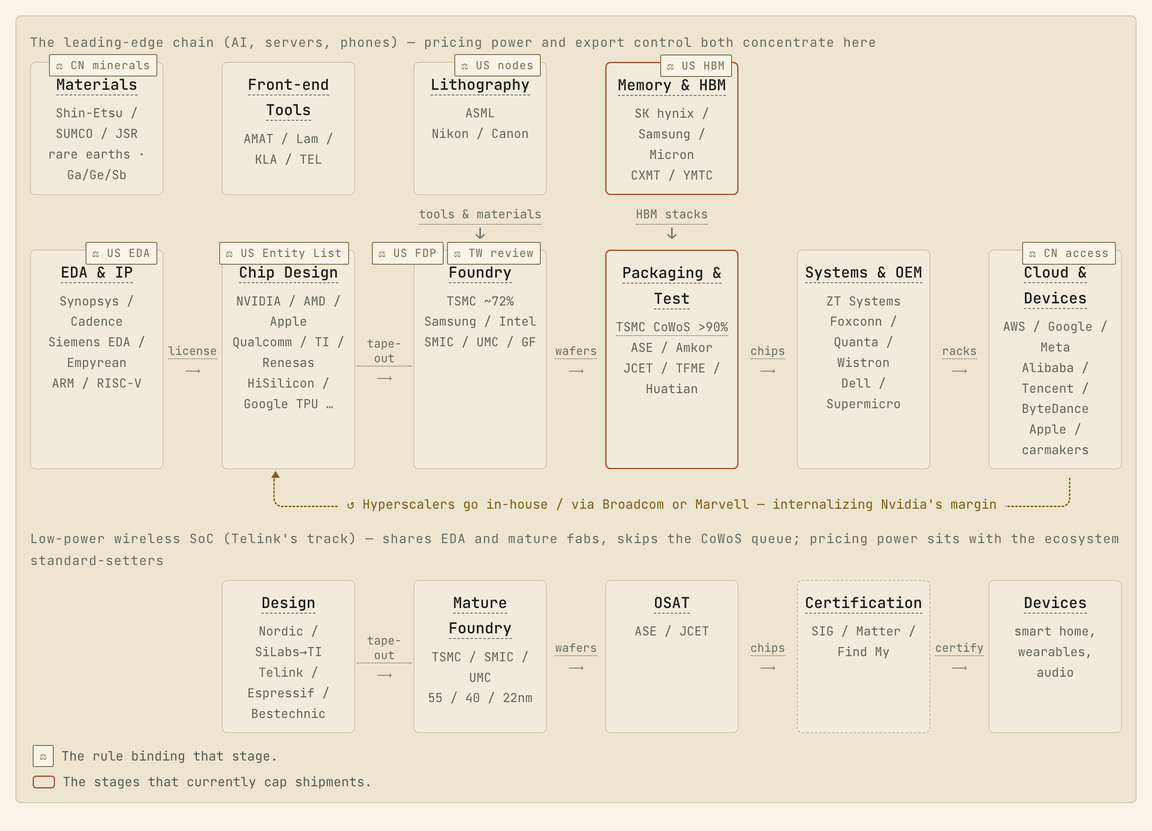
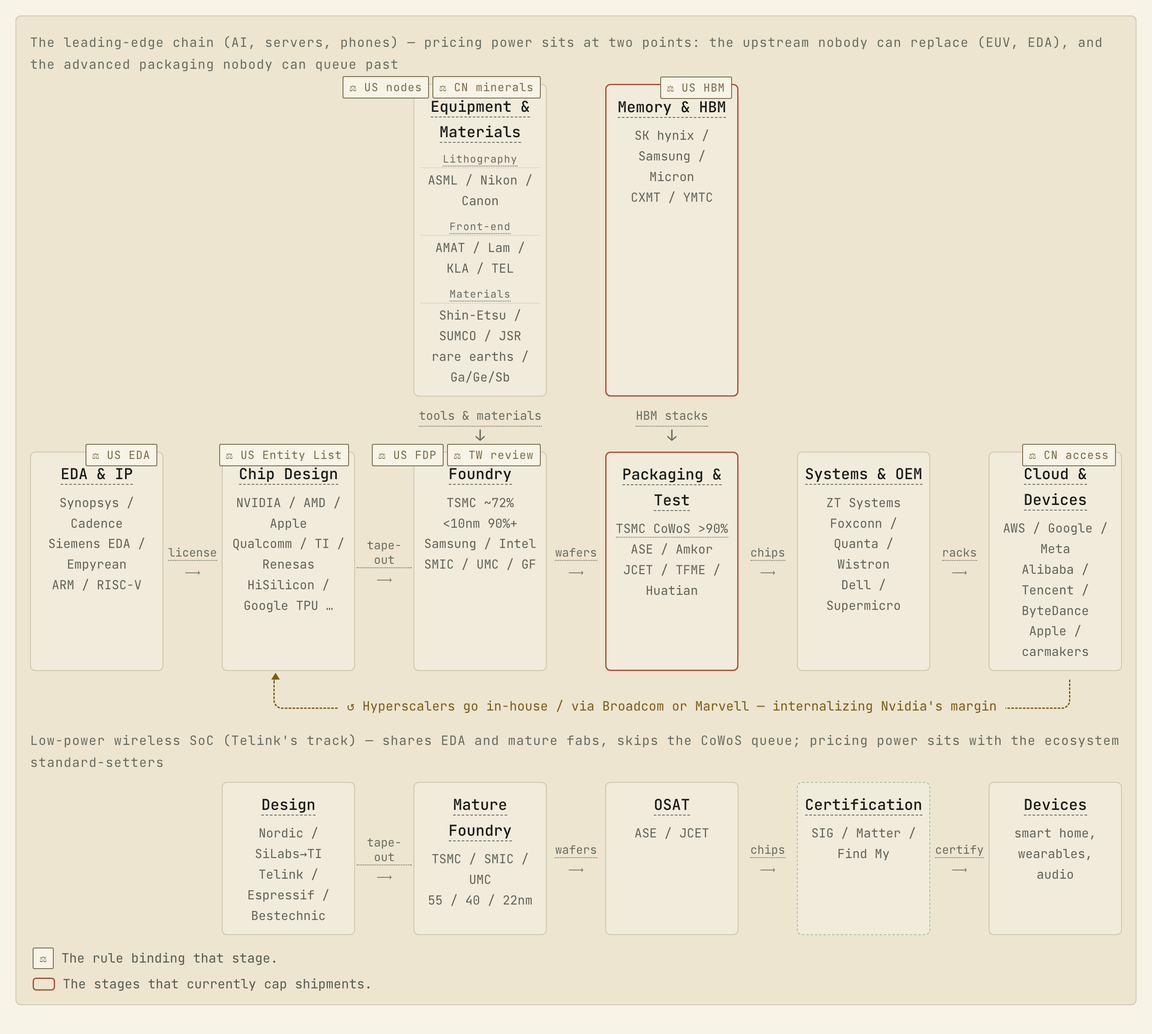
semis: equipment reads as one box with three bands; popups verified clear at three widths
The three separate cells competed with the main chain and wrapped their
titles, so 设备与材料 goes back to one cell carrying labelled bands —
光刻 / 前道设备 / 材料. Lithography still shows ASML on its own line,
which was the point of splitting.

Tooltips: the earlier fix moved left-anchored and centred tips back
inside the viewport but did nothing for right-anchored ones (.tipR sets
left:auto right:0, where margin-left is absorbed). The nudge now drives
both margins from one variable, which covers every anchoring the page
uses. Audited at 1217, 768 and 447px: 149 tips each, none covered, none
cut, none off-canvas.

Also: the language and region radios get autocomplete="off" — browsers
restore the last radio state on reload, which is why the page kept
opening in English after anyone had switched it. Interpuncts I had
reintroduced in the new content go back to slashes. The foundry box
carries <10nm 90%+ next to the ~72% overall share. The lane header no
longer says pricing power "concentrates here", which survived no
follow-up question; it names the two points it sits at.

diff --git a/quartz/static/semis/_cap.html b/quartz/static/semis/_cap.html
@@ -76,7 +76,7 @@ tbody tr:nth-child(even){background:var(--zebra)}
   cursor:help;outline:none;transition:border-color .15s,color .15s}
 .tg-tip:hover,.tg-tip:focus-visible{border-bottom-color:var(--color-accent);
   color:var(--color-accent-light)}
-.tg-tip-box{position:absolute;bottom:calc(100% + 9px);left:50%;z-index:60;margin-left:var(--nudge,0px);margin-right:calc(-1 * var(--nudge,0px));
+.tg-tip-box{position:absolute;bottom:calc(100% + 9px);left:50%;z-index:60;margin-left:var(--nudge,0px);
   width:max-content;max-width:min(360px,82vw);padding:.6rem .75rem;
   border:1px solid var(--color-border-hover);border-radius:5px;
   background:var(--color-surface-raised);box-shadow:0 8px 28px var(--shadow-pop);
@@ -349,16 +349,16 @@ h1.article-title{font-size:30px}
 .tg-tip-box::after{transform:translateX(calc(-1 * var(--nudge, 0px)))}
 </style></head><body><article>
 <h1 class="article-title">半导体产业链全图 — Semiconductor Value Chain: The Full Map</h1>
-<p class="meta">2026-08-21 / silviazeng.github.io</p>
+<p class="meta">2026-08-21 · silviazeng.github.io</p>
 <div class="tg-bi">
-<p><input type="radio" name="tgbilang" id="tg-lang-zh" checked autocomplete="off"><input type="radio" name="tgbilang" id="tg-lang-en" autocomplete="off"></p>
-<div id="mapwrap"><input type="radio" name="regsel" id="r-all" checked autocomplete="off"><input type="radio" name="regsel" id="r-us" autocomplete="off"><input type="radio" name="regsel" id="r-tw" autocomplete="off"><input type="radio" name="regsel" id="r-cn" autocomplete="off"><input type="radio" name="regsel" id="r-kr" autocomplete="off"><input type="radio" name="regsel" id="r-jp" autocomplete="off"><input type="radio" name="regsel" id="r-eu" autocomplete="off"><div class="ctrlbar">
+<p><input type="radio" name="tgbilang" id="tg-lang-zh" checked><input type="radio" name="tgbilang" id="tg-lang-en"></p>
+<div id="mapwrap"><input type="radio" name="regsel" id="r-all" checked><input type="radio" name="regsel" id="r-us"><input type="radio" name="regsel" id="r-tw"><input type="radio" name="regsel" id="r-cn"><input type="radio" name="regsel" id="r-kr"><input type="radio" name="regsel" id="r-jp"><input type="radio" name="regsel" id="r-eu"><div class="ctrlbar">
 <div class="ctrl-group"><span class="ctrl-lab">Language</span>
 <div aria-label="language" class="tg-bi-switch" role="group"><label for="tg-lang-zh">中文</label><label for="tg-lang-en">EN</label></div></div>
 </div>
 <div class="filterbar"><span class="ctrl-lab"><span class="tg-lang zh">地区筛选</span><span class="tg-lang en">Region filter</span></span><div class="legend"><label class="b-all" for="r-all"><span class="tg-lang zh">全部</span><span class="tg-lang en">All</span></label><label class="b-us" for="r-us"><span class="tg-lang zh">美国</span><span class="tg-lang en">US</span></label><label class="b-tw" for="r-tw"><span class="tg-lang zh">台湾</span><span class="tg-lang en">Taiwan</span></label><label class="b-cn" for="r-cn"><span class="tg-lang zh">中国大陆</span><span class="tg-lang en">China</span></label><label class="b-kr" for="r-kr"><span class="tg-lang zh">韩国</span><span class="tg-lang en">Korea</span></label><label class="b-jp" for="r-jp"><span class="tg-lang zh">日本</span><span class="tg-lang en">Japan</span></label><label class="b-eu" for="r-eu"><span class="tg-lang zh">欧洲</span><span class="tg-lang en">Europe</span></label></div></div>
-<figure class="fig"><div class="fgrid"><div class="flane" style="grid-row:1;grid-column:1/-1"><span class="tg-lang zh">先进制程链（AI、服务器、手机）—— 定价权在两处：无可替代的上游（EUV、EDA），和排不上队的先进封装</span><span class="tg-lang en">The leading-edge chain (AI, servers, phones) — pricing power sits at two points: the upstream nobody can replace (EUV, EDA), and the advanced packaging nobody can queue past</span></div>
-<div class="fbox" style="grid-row:2;grid-column:5"><span class="ftag"><span class="fpill tg-tip" tabindex="0">⚖ <span class="tg-lang zh">美国门槛</span><span class="tg-lang en">US nodes</span><span class="tg-tip-box"><span class="tg-lang zh">同属一套<b>美国出口管制体系（EAR，商务部 BIS 执行）</b>——五件工具各咬一层，这件管的是「设备能不能进厂」。<br><br><b>2022 年 10 月 7 日的制程门槛 + 2024 年 12 月的设备 FDP 规则。</b>向中国境内工厂出口设备，只要该厂生产 16/14nm 以下逻辑、18nm 半节距以下 DRAM 或 128 层以上 NAND，就需要许可证——<b>不看所有权</b>。2024 年 12 月起，连非美国造的设备只要用了美国技术也一并覆盖。</span><span class="tg-lang en">One instrument of the <b>same US export-control system (the EAR, run by BIS)</b> — five tools each bite one layer, and this one governs whether tools may enter the fab.<br><br><b>The node thresholds of 7 October 2022, plus the equipment FDP rule of December 2024.</b> Shipping tools to any China-located fab producing logic below 16/14nm, DRAM below 18nm half-pitch or NAND at 128+ layers requires a licence — <b>regardless of who owns the fab</b>. Since December 2024 even non-US tools built with US technology are covered.</span></span></span><span class="fpill tg-tip" tabindex="0">⚖ <span class="tg-lang zh">中国原料</span><span class="tg-lang en">CN minerals</span><span class="tg-tip-box"><span class="tg-lang zh"><b>商务部 2025 年 10 月 9 日第 61/62 号公告。</b>只要一件外国制造的产品里含有价值占比 0.1% 以上的中国原产稀土，出口就需要中国的许可证——<b>这是中国版的 FDP 规则</b>，同样的域外管辖逻辑，方向相反。另有镓、锗、锑：2024 年 12 月 3 日曾宣布对美「原则上不予许可」，2025 年 11 月改回许可制。釜山会晤后，域外条款暂停至 2026 年 11 月 10 日，镓锗锑暂停至 11 月 27 日。</span><span class="tg-lang en"><b>MOFCOM Notices 61/62 of 9 October 2025.</b> Any foreign-made good containing 0.1% or more Chinese-origin rare earths needs a Chinese export licence — structurally the mirror of the US FDP rule. Suspended after Busan until 10 November 2026; the gallium/germanium/antimony suspension runs to 27 November.</span></span></span></span><span class="ft"><span class="tg-tip " tabindex="0"><span class="tg-lang zh">设备与材料</span><span class="tg-lang en">Equipment &amp; Materials</span><span class="tg-tip-box"><span class="tg-lang zh"><b>设备与材料</b>。造芯片的机器和原料，集中度比下游任何一层都高。三格分开看：光刻是单点，前道设备有竞争，材料看日本与中国。</span><span class="tg-lang en"><b>Equipment &amp; materials</b> — more concentrated than anything downstream. Read the three bands separately: lithography is a single point, front-end tools have real competition, materials turn on Japan and China.</span></span></span></span><span class="fp"><span class="fsub"><span class="tg-tip " tabindex="0"><span class="tg-lang zh">光刻</span><span class="tg-lang en">Lithography</span><span class="tg-tip-box"><span class="tg-lang zh"><b>EUV 全球只有 ASML 一家</b>，而它自己也是单点叠单点：光源来自美国 Cymer，镜头来自德国蔡司，激光来自德国通快。DUV 上尼康、佳能仍在，EUV 上没有第二家。</span><span class="tg-lang en"><b>ASML is the only maker of EUV</b>, and is itself single-sourced one layer down: light source from Cymer in the US, optics from Zeiss and lasers from Trumpf in Germany. Nikon and Canon still compete in DUV; in EUV there is no second supplier.</span></span></span></span><span class="fsp"><span class="sr sr-eu">ASML</span> / <span class="sr sr-jp">Nikon</span> / <span class="sr sr-jp">Canon</span></span><span class="fsub"><span class="tg-tip " tabindex="0"><span class="tg-lang zh">前道设备</span><span class="tg-lang en">Front-end</span><span class="tg-tip-box"><span class="tg-lang zh"><b>沉积、刻蚀、量测</b>。和光刻不同，这一层有多家真实竞争，也是国产替代推进最快的地方（北方华创、中微、新凯来，见下方 00）。</span><span class="tg-lang en"><b>Deposition, etch, metrology.</b> Unlike lithography this layer has several real competitors, and it is where domestic Chinese substitution has moved fastest (NAURA, AMEC, SiCarrier — see 00 below).</span></span></span></span><span class="fsp"><span class="sr sr-us">AMAT</span> / <span class="sr sr-us">Lam</span> / <span class="sr sr-us">KLA</span> / <span class="sr sr-jp">TEL</span></span><span class="fsub"><span class="tg-tip " tabindex="0"><span class="tg-lang zh">材料</span><span class="tg-lang en">Materials</span><span class="tg-tip-box"><span class="tg-lang zh"><b>硅片、光刻胶、特气与关键矿物</b>。日本在硅片与光刻胶上高度集中；稀土和镓锗锑的精炼环节 80% 以上在中国。</span><span class="tg-lang en"><b>Wafers, resists, specialty gases and critical minerals.</b> Japan is heavily concentrated in wafers and resists; China refines over 80% of rare earths and Ga/Ge/Sb.</span></span></span></span><span class="fsp"><span class="sr sr-jp"><span class="tg-lang zh">信越</span><span class="tg-lang en">Shin-Etsu</span></span> / <span class="sr sr-jp">SUMCO</span> / <span class="sr sr-jp">JSR</span><br><span class="sr sr-cn"><span class="tg-lang zh">稀土及镓锗锑</span><span class="tg-lang en">rare earths / Ga/Ge/Sb</span></span></span></span></div>
+<figure class="fig"><div class="fgrid"><div class="flane" style="grid-row:1;grid-column:1/-1"><span class="tg-lang zh">先进制程链（AI、服务器、手机）—— 定价权与出口管制都集中在这条线上</span><span class="tg-lang en">The leading-edge chain (AI, servers, phones) — pricing power and export control both concentrate here</span></div>
+<div class="fbox" style="grid-row:2;grid-column:5"><span class="ftag"><span class="fpill tg-tip" tabindex="0">⚖ <span class="tg-lang zh">美国门槛</span><span class="tg-lang en">US nodes</span><span class="tg-tip-box"><span class="tg-lang zh">同属一套<b>美国出口管制体系（EAR，商务部 BIS 执行）</b>——五件工具各咬一层，这件管的是「设备能不能进厂」。<br><br><b>2022 年 10 月 7 日的制程门槛 + 2024 年 12 月的设备 FDP 规则。</b>向中国境内工厂出口设备，只要该厂生产 16/14nm 以下逻辑、18nm 半节距以下 DRAM 或 128 层以上 NAND，就需要许可证——<b>不看所有权</b>。2024 年 12 月起，连非美国造的设备只要用了美国技术也一并覆盖。</span><span class="tg-lang en">One instrument of the <b>same US export-control system (the EAR, run by BIS)</b> — five tools each bite one layer, and this one governs whether tools may enter the fab.<br><br><b>The node thresholds of 7 October 2022, plus the equipment FDP rule of December 2024.</b> Shipping tools to any China-located fab producing logic below 16/14nm, DRAM below 18nm half-pitch or NAND at 128+ layers requires a licence — <b>regardless of who owns the fab</b>. Since December 2024 even non-US tools built with US technology are covered.</span></span></span><span class="fpill tg-tip" tabindex="0">⚖ <span class="tg-lang zh">中国原料</span><span class="tg-lang en">CN minerals</span><span class="tg-tip-box"><span class="tg-lang zh"><b>商务部 2025 年 10 月 9 日第 61/62 号公告。</b>只要一件外国制造的产品里含有价值占比 0.1% 以上的中国原产稀土，出口就需要中国的许可证——<b>这是中国版的 FDP 规则</b>，同样的域外管辖逻辑，方向相反。另有镓、锗、锑：2024 年 12 月 3 日曾宣布对美「原则上不予许可」，2025 年 11 月改回许可制。釜山会晤后，域外条款暂停至 2026 年 11 月 10 日，镓锗锑暂停至 11 月 27 日。</span><span class="tg-lang en"><b>MOFCOM Notices 61/62 of 9 October 2025.</b> Any foreign-made good containing 0.1% or more Chinese-origin rare earths needs a Chinese export licence — structurally the mirror of the US FDP rule. Suspended after Busan until 10 November 2026; the gallium/germanium/antimony suspension runs to 27 November.</span></span></span></span><span class="ft"><span class="tg-tip " tabindex="0"><span class="tg-lang zh">设备与材料</span><span class="tg-lang en">Equipment &amp; Materials</span><span class="tg-tip-box"><span class="tg-lang zh"><b>设备与材料</b>。造芯片的机器和原料，集中度比下游任何一层都高。三格分开看：光刻是单点，前道设备有竞争，材料看日本与中国。</span><span class="tg-lang en"><b>Equipment &amp; materials</b> — more concentrated than anything downstream. Read the three bands separately: lithography is a single point, front-end tools have real competition, materials turn on Japan and China.</span></span></span></span><span class="fp"><span class="fsub"><span class="tg-tip " tabindex="0"><span class="tg-lang zh">光刻</span><span class="tg-lang en">Lithography</span><span class="tg-tip-box"><span class="tg-lang zh"><b>EUV 全球只有 ASML 一家</b>，而它自己也是单点叠单点：光源来自美国 Cymer，镜头来自德国蔡司，激光来自德国通快。DUV 上尼康、佳能仍在，EUV 上没有第二家。</span><span class="tg-lang en"><b>ASML is the only maker of EUV</b>, and is itself single-sourced one layer down: light source from Cymer in the US, optics from Zeiss and lasers from Trumpf in Germany. Nikon and Canon still compete in DUV; in EUV there is no second supplier.</span></span></span></span><span class="fsp"><span class="sr sr-eu">ASML</span> · <span class="sr sr-jp">Nikon</span> · <span class="sr sr-jp">Canon</span></span><span class="fsub"><span class="tg-tip " tabindex="0"><span class="tg-lang zh">前道设备</span><span class="tg-lang en">Front-end</span><span class="tg-tip-box"><span class="tg-lang zh"><b>沉积、刻蚀、量测</b>。和光刻不同，这一层有多家真实竞争，也是国产替代推进最快的地方（北方华创、中微、新凯来，见下方 00）。</span><span class="tg-lang en"><b>Deposition, etch, metrology.</b> Unlike lithography this layer has several real competitors, and it is where domestic Chinese substitution has moved fastest (NAURA, AMEC, SiCarrier — see 00 below).</span></span></span></span><span class="fsp"><span class="sr sr-us">AMAT</span> · <span class="sr sr-us">Lam</span> · <span class="sr sr-us">KLA</span> · <span class="sr sr-jp">TEL</span></span><span class="fsub"><span class="tg-tip " tabindex="0"><span class="tg-lang zh">材料</span><span class="tg-lang en">Materials</span><span class="tg-tip-box"><span class="tg-lang zh"><b>硅片、光刻胶、特气与关键矿物</b>。日本在硅片与光刻胶上高度集中；稀土和镓锗锑的精炼环节 80% 以上在中国。</span><span class="tg-lang en"><b>Wafers, resists, specialty gases and critical minerals.</b> Japan is heavily concentrated in wafers and resists; China refines over 80% of rare earths and Ga/Ge/Sb.</span></span></span></span><span class="fsp"><span class="sr sr-jp"><span class="tg-lang zh">信越</span><span class="tg-lang en">Shin-Etsu</span></span> · <span class="sr sr-jp">SUMCO</span> · <span class="sr sr-jp">JSR</span><br><span class="sr sr-cn"><span class="tg-lang zh">稀土及镓锗锑</span><span class="tg-lang en">rare earths · Ga/Ge/Sb</span></span></span></span></div>
 <div class="fbox hot" style="grid-row:2;grid-column:7"><span class="ftag"><span class="fpill tg-tip" tabindex="0">⚖ <span class="tg-lang zh">美国 HBM</span><span class="tg-lang en">US HBM</span><span class="tg-tip-box"><span class="tg-lang zh">同属一套<b>美国出口管制体系（EAR，商务部 BIS 执行）</b>——五件工具各咬一层，这件管的是「这类物项本身」。<br><br><b>2024 年 12 月起 HBM 被纳入管制（ECCN 3A090.c）。</b>这是目前限制华为昇腾出货量的真正瓶颈——约束在 HBM，不在逻辑晶圆。注意这一格里三家的机制各不相同：美光本身是美国公司；长江存储 2022 年 12 月被列入实体清单；<b>长鑫至今未被列名，它受约束靠的是上面那条不看所有权的制程门槛</b>。</span><span class="tg-lang en">One instrument of the <b>same US export-control system (the EAR, run by BIS)</b> — five tools each bite one layer, and this one governs the item class itself.<br><br><b>HBM came under control in December 2024 (ECCN 3A090.c).</b> This, not logic wafers, is the binding constraint on Huawei's Ascend shipments. Note the three makers here are caught by different mechanisms: Micron is simply American; YMTC was Entity-Listed in December 2022; <b>CXMT has never been named — it is bound by the ownership-blind node thresholds above</b>.</span></span></span></span><span class="ft"><span class="tg-tip " tabindex="0"><span class="tg-lang zh">存储与 HBM</span><span class="tg-lang en">Memory & HBM</span><span class="tg-tip-box"><span class="tg-lang zh"><b>HBM（High Bandwidth Memory，高带宽内存）</b>。垂直堆叠的 DRAM，紧贴处理器裸片放置。AI 加速器的主要规格竞赛点，全球只有 SK 海力士、三星、美光三家能量产。2024 年 12 月起被列入美国出口管制，<b>这是目前限制华为昇腾出货量的真正瓶颈——不是逻辑晶圆</b>。</span><span class="tg-lang en"><b>HBM (High Bandwidth Memory)</b> — vertically stacked DRAM placed against the processor die. Only SK hynix, Samsung and Micron produce it at volume. Export-controlled by the US since December 2024, and <b>the actual binding constraint on Huawei's Ascend shipments — not logic wafers</b>.</span></span></span></span><span class="fp"><span class="sr sr-kr"><span class="tg-lang zh">SK 海力士</span><span class="tg-lang en">SK hynix</span></span> / <span class="sr sr-kr"><span class="tg-lang zh">三星</span><span class="tg-lang en">Samsung</span></span> / <span class="sr sr-us"><span class="tg-lang zh">美光</span><span class="tg-lang en">Micron</span></span><br><span class="sr sr-cn"><span class="tg-lang zh">长鑫</span><span class="tg-lang en">CXMT</span></span> / <span class="sr sr-cn"><span class="tg-lang zh">长江存储</span><span class="tg-lang en">YMTC</span></span></span></div>
 <div class="fvert" style="grid-row:3;grid-column:5"><span class="tg-tip " tabindex="0"><span class="tg-lang zh">设备与材料</span><span class="tg-lang en">tools & materials</span><span class="tg-tip-box"><span class="tg-lang zh">光刻机、刻蚀机、硅片、光刻胶从这里进厂。断供这一条竖线，工厂两年后就造不了下一代。</span><span class="tg-lang en">Scanners, etchers, wafers and resists enter the fab here. Cut this vertical and in two years the fab cannot build the next node.</span></span></span><span class="ar">↓</span></div>
 <div class="fvert" style="grid-row:3;grid-column:7"><span class="tg-tip " tabindex="0"><span class="tg-lang zh">HBM 堆栈</span><span class="tg-lang en">HBM stacks</span><span class="tg-tip-box"><span class="tg-lang zh">HBM 是在<b>封装环节</b>才和逻辑裸片合体的——这正是 CoWoS 成为整条链瓶颈的原因。</span><span class="tg-lang en">HBM only meets the logic die <b>at packaging</b> — which is exactly why CoWoS is the chain's bottleneck.</span></span></span><span class="ar">↓</span></div>
@@ -366,7 +366,7 @@ h1.article-title{font-size:30px}
 <div class="fcon" style="grid-row:4;grid-column:2"><span class="tg-tip " tabindex="0"><span class="tg-lang zh">授权</span><span class="tg-lang en">license</span><span class="tg-tip-box"><span class="tg-lang zh">EDA 工具按席位收费；IP 按「授权费 + 每颗版税」收。ARM 的商业模式就在这一条箭头上。</span><span class="tg-lang en">EDA tools are sold per seat; IP as licence fee plus per-chip royalty. ARM's entire business model lives on this one arrow.</span></span></span><span class="ar">⟶</span></div>
 <div class="fbox" style="grid-row:4;grid-column:3"><span class="ftag"><span class="fpill tg-tip" tabindex="0">⚖ <span class="tg-lang zh">美国实体清单</span><span class="tg-lang en">US Entity List</span><span class="tg-tip-box"><span class="tg-lang zh">同属一套<b>美国出口管制体系（EAR，商务部 BIS 执行）</b>——五件工具各咬一层，这件管的是「能不能卖给这家公司」。<br><br><b>实体清单点名。</b>华为 2019 年入列、中芯 2020 年、算能 2024 年，2024 年 12 月一次加了 140 多家。向名单上的实体出口受管制物项需要许可证，而许可政策通常是「推定拒绝」。</span><span class="tg-lang en">One instrument of the <b>same US export-control system (the EAR, run by BIS)</b> — five tools each bite one layer, and this one governs whether anyone may sell to this company.<br><br><b>Named on the Entity List.</b> Huawei in 2019, SMIC in 2020, Sophgo in 2024, and over 140 entities added at once in December 2024. Exports of controlled items to a listed party need a licence, normally under a policy of presumptive denial.</span></span></span></span><span class="ft"><span class="tg-tip " tabindex="0"><span class="tg-lang zh">芯片设计</span><span class="tg-lang en">Chip Design</span><span class="tg-tip-box"><span class="tg-lang zh"><b>芯片设计（fabless）</b>。只做设计不建厂，产出是版图（GDSII 数据），交给代工厂印到硅上。英特尔、三星、TI 这类设计制造都自己做的叫 IDM。这一层价值最集中、玩家最多。</span><span class="tg-lang en"><b>Chip design (fabless)</b> — design only, no fab. The output is a layout (GDSII) handed to a foundry to print on silicon. Firms that do both, like Intel, Samsung and TI, are IDMs.</span></span></span></span><span class="fp"><span class="sr sr-us">NVIDIA</span> / <span class="sr sr-us">AMD</span> / <span class="sr sr-us">Apple</span><br><span class="sr sr-us"><span class="tg-lang zh">高通</span><span class="tg-lang en">Qualcomm</span></span> / <span class="sr sr-us">TI</span> / <span class="sr sr-jp"><span class="tg-lang zh">瑞萨</span><span class="tg-lang en">Renesas</span></span><br><span class="sr sr-cn"><span class="tg-lang zh">海思</span><span class="tg-lang en">HiSilicon</span></span> / <span class="sr sr-us">Google TPU …</span></span></div>
 <div class="fcon" style="grid-row:4;grid-column:4"><span class="tg-tip " tabindex="0"><span class="tg-lang zh">版图</span><span class="tg-lang en">tape-out</span><span class="tg-tip-box"><span class="tg-lang zh"><b>版图（GDSII）→ tape-out</b>。设计数据定稿、签核、交给代工厂的那个时间点。注意它是事件不是过程。一颗普通 7nm SoC 的首次 tape-out 通常就要 5,000 万美元。</span><span class="tg-lang en"><b>Layout (GDSII) → tape-out</b> — the moment design data is finalized, signed off and handed to the foundry. An event, not a process. A first tape-out of an ordinary 7nm SoC typically runs $50m.</span></span></span><span class="ar">⟶</span></div>
-<div class="fbox" style="grid-row:4;grid-column:5"><span class="ftag"><span class="fpill tg-tip" tabindex="0">⚖ <span class="tg-lang zh">美国 FDP</span><span class="tg-lang en">US FDP</span><span class="tg-tip-box"><span class="tg-lang zh">同属一套<b>美国出口管制体系（EAR，商务部 BIS 执行）</b>——五件工具各咬一层，这件管的是「在国外造的算不算美国管」。<br><br><b>外国直接产品规则（FDP）。</b>一件产品哪怕百分之百在台湾制造、由台湾公司拥有，只要它是用美国的技术、软件或设备「直接生产」出来的，美国就主张管辖权——不论它在哪造、由谁造。<b>这才是台积电受美国法律约束的原因</b>，而不是它有多少美国客户。2020 年针对华为启用，2022 年扩展到先进计算，2024 年 12 月又扩展到半导体设备本身。</span><span class="tg-lang en">One instrument of the <b>same US export-control system (the EAR, run by BIS)</b> — five tools each bite one layer, and this one governs whether a foreign-made product still falls under US law.<br><br><b>The Foreign Direct Product Rule.</b> Even an item made entirely in Taiwan by a Taiwanese company falls under US jurisdiction if it is the direct product of American technology or equipment. <b>That, not its customer list, is why TSMC is bound by US law.</b></span></span></span><span class="fpill tg-tip" tabindex="0">⚖ <span class="tg-lang zh">台湾审查</span><span class="tg-lang en">TW review</span><span class="tg-tip-box"><span class="tg-lang zh"><b>《产业创新条例》第 22 条修正（2025 年 4 月通过）。</b>对外投资特定技术需事前核准，主管机关可以国家安全为由否决或附条件核准。所谓「N-1 原则」（海外制程落后本土一代）从来不是成文禁令，而是通过这道审查行使的裁量性规范，2025 年 1 月起持续放宽。</span><span class="tg-lang en"><b>Article 22 of the Industrial Innovation Act, amended April 2025.</b> Outbound investment in designated technologies needs prior approval, and the ministry may refuse or attach conditions on national-security grounds. The so-called N-1 rule was never a codified ban — it is a discretionary norm applied through this review, and has been loosened since January 2025.</span></span></span></span><span class="ft"><span class="tg-tip " tabindex="0"><span class="tg-lang zh">晶圆代工</span><span class="tg-lang en">Foundry</span><span class="tg-tip-box"><span class="tg-lang zh"><b>晶圆代工（foundry）</b>。在硅片上把别人设计好的电路「印」出来。纯代工（pure-play）意味着自己不设计任何产品，因此永远不与客户竞争——1987 年张忠谋发明的就是这条承诺。</span><span class="tg-lang en"><b>Foundry</b> — a contract manufacturer that prints someone else's design on silicon. <i>Pure-play</i> means designing no products of its own, so it never competes with its customers — the promise Morris Chang invented in 1987.</span></span></span></span><span class="fp"><span class="sr sr-tw"><span class="tg-lang zh">台积电 ~72%<br>&lt;10nm 90%+</span><span class="tg-lang en">TSMC ~72%<br>&lt;10nm 90%+</span></span><br><span class="sr sr-kr"><span class="tg-lang zh">三星</span><span class="tg-lang en">Samsung</span></span> / <span class="sr sr-us"><span class="tg-lang zh">英特尔</span><span class="tg-lang en">Intel</span></span><br><span class="sr sr-cn"><span class="tg-lang zh">中芯</span><span class="tg-lang en">SMIC</span></span> / <span class="sr sr-tw"><span class="tg-lang zh">联电</span><span class="tg-lang en">UMC</span></span> / <span class="sr sr-us">GF</span></span></div>
+<div class="fbox" style="grid-row:4;grid-column:5"><span class="ftag"><span class="fpill tg-tip" tabindex="0">⚖ <span class="tg-lang zh">美国 FDP</span><span class="tg-lang en">US FDP</span><span class="tg-tip-box"><span class="tg-lang zh">同属一套<b>美国出口管制体系（EAR，商务部 BIS 执行）</b>——五件工具各咬一层，这件管的是「在国外造的算不算美国管」。<br><br><b>外国直接产品规则（FDP）。</b>一件产品哪怕百分之百在台湾制造、由台湾公司拥有，只要它是用美国的技术、软件或设备「直接生产」出来的，美国就主张管辖权——不论它在哪造、由谁造。<b>这才是台积电受美国法律约束的原因</b>，而不是它有多少美国客户。2020 年针对华为启用，2022 年扩展到先进计算，2024 年 12 月又扩展到半导体设备本身。</span><span class="tg-lang en">One instrument of the <b>same US export-control system (the EAR, run by BIS)</b> — five tools each bite one layer, and this one governs whether a foreign-made product still falls under US law.<br><br><b>The Foreign Direct Product Rule.</b> Even an item made entirely in Taiwan by a Taiwanese company falls under US jurisdiction if it is the direct product of American technology or equipment. <b>That, not its customer list, is why TSMC is bound by US law.</b></span></span></span><span class="fpill tg-tip" tabindex="0">⚖ <span class="tg-lang zh">台湾审查</span><span class="tg-lang en">TW review</span><span class="tg-tip-box"><span class="tg-lang zh"><b>《产业创新条例》第 22 条修正（2025 年 4 月通过）。</b>对外投资特定技术需事前核准，主管机关可以国家安全为由否决或附条件核准。所谓「N-1 原则」（海外制程落后本土一代）从来不是成文禁令，而是通过这道审查行使的裁量性规范，2025 年 1 月起持续放宽。</span><span class="tg-lang en"><b>Article 22 of the Industrial Innovation Act, amended April 2025.</b> Outbound investment in designated technologies needs prior approval, and the ministry may refuse or attach conditions on national-security grounds. The so-called N-1 rule was never a codified ban — it is a discretionary norm applied through this review, and has been loosened since January 2025.</span></span></span></span><span class="ft"><span class="tg-tip " tabindex="0"><span class="tg-lang zh">晶圆代工</span><span class="tg-lang en">Foundry</span><span class="tg-tip-box"><span class="tg-lang zh"><b>晶圆代工（foundry）</b>。在硅片上把别人设计好的电路「印」出来。纯代工（pure-play）意味着自己不设计任何产品，因此永远不与客户竞争——1987 年张忠谋发明的就是这条承诺。</span><span class="tg-lang en"><b>Foundry</b> — a contract manufacturer that prints someone else's design on silicon. <i>Pure-play</i> means designing no products of its own, so it never competes with its customers — the promise Morris Chang invented in 1987.</span></span></span></span><span class="fp"><span class="sr sr-tw"><span class="tg-lang zh">台积电 ~72%</span><span class="tg-lang en">TSMC ~72%</span></span><br><span class="sr sr-kr"><span class="tg-lang zh">三星</span><span class="tg-lang en">Samsung</span></span> / <span class="sr sr-us"><span class="tg-lang zh">英特尔</span><span class="tg-lang en">Intel</span></span><br><span class="sr sr-cn"><span class="tg-lang zh">中芯</span><span class="tg-lang en">SMIC</span></span> / <span class="sr sr-tw"><span class="tg-lang zh">联电</span><span class="tg-lang en">UMC</span></span> / <span class="sr sr-us">GF</span></span></div>
 <div class="fcon" style="grid-row:4;grid-column:6"><span class="tg-tip " tabindex="0"><span class="tg-lang zh">晶圆</span><span class="tg-lang en">wafers</span><span class="tg-tip-box"><span class="tg-lang zh"><b>晶圆</b>。代工厂按晶圆计价，不按芯片计价。2nm 晶圆业界预期 ⚠2.5–3 万美元一片。</span><span class="tg-lang en"><b>Wafers.</b> Foundries price per wafer, not per chip. A 2nm wafer is expected to run ⚠$25–30k.</span></span></span><span class="ar">⟶</span></div>
 <div class="fbox hot" style="grid-row:4;grid-column:7"><span class="ft"><span class="tg-tip " tabindex="0"><span class="tg-lang zh">封装测试</span><span class="tg-lang en">Packaging & Test</span><span class="tg-tip-box"><span class="tg-lang zh"><b>封装测试</b>。晶圆切成裸片后，封装把裸片装进能焊到电路板上的黑块，测试逐颗通电挑坏。AI 芯片在这一步把逻辑裸片和 HBM 合体（CoWoS）——<b>整条链的真正瓶颈在这里，不在晶圆</b>。</span><span class="tg-lang en"><b>Packaging & test.</b> Dies are sealed into solderable packages and tested part by part. For AI chips this is where logic dies meet HBM (CoWoS) — <b>the chain's real bottleneck, ahead of wafers</b>.</span></span></span></span><span class="fp"><span class="tg-tip sr sr-tw" tabindex="0"><span class="sr sr-tw"><span class="tg-lang zh">台积电 CoWoS &gt;90%</span><span class="tg-lang en">TSMC CoWoS &gt;90%</span></span><span class="tg-tip-box"><span class="tg-lang zh"><b>CoWoS（Chip-on-Wafer-on-Substrate）</b>。台积电的先进封装技术，把逻辑裸片和 HBM 堆栈接合到同一块中介层上。<b>限制 AI 芯片产出的真正瓶颈是它的产能，而不是晶圆产能</b>。台积电握有全球九成以上的 CoWoS 产能，2026 年底目标月产约 12 万片。</span><span class="tg-lang en"><b>CoWoS (Chip-on-Wafer-on-Substrate)</b> — TSMC's advanced packaging process, bonding logic dies and HBM stacks onto a shared interposer. <b>The real constraint on AI chip output is CoWoS capacity, not wafer capacity.</b> TSMC holds over 90% of it, targeting ~120k wafers/month by end-2026.</span></span></span><br><span class="sr sr-tw"><span class="tg-lang zh">日月光</span><span class="tg-lang en">ASE</span></span> / <span class="sr sr-us"><span class="tg-lang zh">安靠</span><span class="tg-lang en">Amkor</span></span><br><span class="sr sr-cn"><span class="tg-lang zh">长电</span><span class="tg-lang en">JCET</span></span> / <span class="sr sr-cn"><span class="tg-lang zh">通富</span><span class="tg-lang en">TFME</span></span> / <span class="sr sr-cn"><span class="tg-lang zh">华天</span><span class="tg-lang en">Huatian</span></span></span></div>
 <div class="fcon" style="grid-row:4;grid-column:8"><span class="tg-tip " tabindex="0"><span class="tg-lang zh">芯片</span><span class="tg-lang en">chips</span><span class="tg-tip-box"><span class="tg-lang zh">封好、测完、挑掉坏品之后的成品芯片。</span><span class="tg-lang en">Finished chips: packaged, tested, bad parts culled.</span></span></span><span class="ar">⟶</span></div>
@@ -455,7 +455,7 @@ h1.article-title{font-size:30px}
 <div class="st-head"><span class="st-num">08</span><span class="st-zh">认证与生态</span><span class="st-en">Certification &amp; Ecosystems</span></div>
 <p class="st-kicker"><span class="tg-lang zh">芯片厂控制不了的一道门。决定「什么算一台能用的设备」的不是芯片本身，是标准组织与核准机构。</span><span class="tg-lang en">A gate no chip vendor controls. What counts as a working device is decided not by the chip but by standards bodies and radio regulators.</span></p>
 <div class="choke"><b><span class="tg-lang zh">这道门决定了定价权落在谁手上</span><span class="tg-lang en">This gate decides where pricing power lands</span></b><br><span><span class="tg-lang zh">一颗 SoC 通过认证、拿到型号核准、进入某个生态，才成为终端厂商能用的东西。换一颗便宜五分钱的芯片意味着重写、重认证、重核准——这份成本落在客户身上，议价的位置也就留在了标准方和终端厂商那边。</span><span class="tg-lang en">A SoC becomes usable to a device maker only once it has passed certification, cleared radio approval and entered an ecosystem. Switching to a chip five cents cheaper means rewriting, recertifying and requalifying — that cost falls on the customer, which is what leaves the bargaining position with the standard-setters and the device makers.</span></span></div>
-<div class="grp"><p class="grp-l">标准与核准 <i>/</i> Standards &amp; Approvals</p><div class="chips"><span class="chip c-gl tg-tip" data-r="gl" tabindex="0"><span class="chip-n">Bluetooth SIG</span><span class="chip-m"><span class="tg-lang zh">BLE 规范与认证</span><span class="tg-lang en">BLE spec and qualification</span></span><span class="tg-tip-box"><span class="tg-lang zh"><b>蓝牙技术联盟</b>。制定 BLE 规范并执行认证，未通过者不得使用蓝牙商标。</span><span class="tg-lang en"><b>Bluetooth SIG</b> — sets the BLE specification and runs qualification; without it a product may not carry the trademark.</span></span></span><span class="chip c-gl tg-tip" data-r="gl" tabindex="0"><span class="chip-n">Matter / CSA</span><span class="chip-m"><span class="tg-lang zh">智能家居互通标准</span><span class="tg-lang en">smart-home interoperability</span></span><span class="tg-tip-box"><span class="tg-lang zh"><b>连接标准联盟</b>。Matter 定义智能家居设备之间的互通方式，2022 年发布。</span><span class="tg-lang en"><b>Connectivity Standards Alliance</b> — Matter, released in 2022, defines how smart-home devices interoperate.</span></span></span><span class="chip c-us tg-tip" data-r="us" tabindex="0"><span class="chip-n">Apple Find My<i class="chip-r"><span class="tg-lang zh">美</span><span class="tg-lang en">US</span></i></span><span class="chip-m"><span class="tg-lang zh">接入苹果生态的条件</span><span class="tg-lang en">the terms of Apple's network</span></span><span class="tg-tip-box"><span class="tg-lang zh"><b>Find My 网络</b>。接入苹果查找网络需通过苹果自己的认证方案，条件由苹果单方设定。</span><span class="tg-lang en"><b>Find My network</b> — joining it requires passing Apple's own programme, on terms Apple sets alone.</span></span></span><span class="chip c-gl tg-tip" data-r="gl" tabindex="0"><span class="chip-n">FCC / CE / SRRC</span><span class="chip-m"><span class="tg-lang zh">各国无线电型号核准</span><span class="tg-lang en">national radio approvals</span></span><span class="tg-tip-box"><span class="tg-lang zh"><b>无线电型号核准</b>。任何发射射频的设备进入一国市场前须取得当地核准，各国互不承认。</span><span class="tg-lang en"><b>Radio type approval</b> — any transmitting device needs local clearance before it may enter a market, and the regimes do not recognise one another.</span></span></span></div></div>
+<div class="grp"><p class="grp-l">标准与核准 <i>/</i> Standards &amp; Approvals</p><div class="chips"><span class="chip c-gl tg-tip" data-r="gl" tabindex="0"><span class="chip-n">Bluetooth SIG</span><span class="chip-m"><span class="tg-lang zh">BLE 规范与认证</span><span class="tg-lang en">BLE spec and qualification</span></span><span class="tg-tip-box"><span class="tg-lang zh"><b>蓝牙技术联盟</b>。制定 BLE 规范并执行认证，未通过者不得使用蓝牙商标。</span><span class="tg-lang en"><b>Bluetooth SIG</b> — sets the BLE specification and runs qualification; without it a product may not carry the trademark.</span></span></span><span class="chip c-gl tg-tip" data-r="gl" tabindex="0"><span class="chip-n">Matter · CSA</span><span class="chip-m"><span class="tg-lang zh">智能家居互通标准</span><span class="tg-lang en">smart-home interoperability</span></span><span class="tg-tip-box"><span class="tg-lang zh"><b>连接标准联盟</b>。Matter 定义智能家居设备之间的互通方式，2022 年发布。</span><span class="tg-lang en"><b>Connectivity Standards Alliance</b> — Matter, released in 2022, defines how smart-home devices interoperate.</span></span></span><span class="chip c-us tg-tip" data-r="us" tabindex="0"><span class="chip-n">Apple Find My<i class="chip-r"><span class="tg-lang zh">美</span><span class="tg-lang en">US</span></i></span><span class="chip-m"><span class="tg-lang zh">接入苹果生态的条件</span><span class="tg-lang en">the terms of Apple's network</span></span><span class="tg-tip-box"><span class="tg-lang zh"><b>Find My 网络</b>。接入苹果查找网络需通过苹果自己的认证方案，条件由苹果单方设定。</span><span class="tg-lang en"><b>Find My network</b> — joining it requires passing Apple's own programme, on terms Apple sets alone.</span></span></span><span class="chip c-gl tg-tip" data-r="gl" tabindex="0"><span class="chip-n">FCC · CE · SRRC</span><span class="chip-m"><span class="tg-lang zh">各国无线电型号核准</span><span class="tg-lang en">national radio approvals</span></span><span class="tg-tip-box"><span class="tg-lang zh"><b>无线电型号核准</b>。任何发射射频的设备进入一国市场前须取得当地核准，各国互不承认。</span><span class="tg-lang en"><b>Radio type approval</b> — any transmitting device needs local clearance before it may enter a market, and the regimes do not recognise one another.</span></span></span></div></div>
 </section>
 </div>
 </div>
@@ -486,6 +486,21 @@ function tgFit(tip){
 document.addEventListener("keydown",function(e){
   var open=document.activeElement;
   if(e.key==="Escape"&&open&&open.classList&&open.classList.contains("tg-tip"))open.blur();
+});
+</script>
+<script>
+window.addEventListener("load",function(){
+  document.documentElement.setAttribute("saved-theme","dark");
+  var en=document.getElementById("tg-lang-en"); if(en) en.checked=true;
+  var fig=document.querySelector("figure.fig"), node=fig;
+  while(node && node!==document.body){
+    var p=node.parentNode;
+    [].slice.call(p.children).forEach(function(c){ if(c!==node) c.style.display="none"; });
+    p.style.maxWidth="none"; p.style.width="auto"; p.style.margin="0"; p.style.padding="0"; node=p;
+  }
+  document.body.style.cssText="margin:0;padding:18px;width:1340px;box-sizing:border-box;background:var(--color-bg)";
+  fig.style.margin="0";
+  requestAnimationFrame(function(){ document.title="1340x"+Math.ceil(document.body.getBoundingClientRect().height); });
 });
 </script>
 </body></html>
